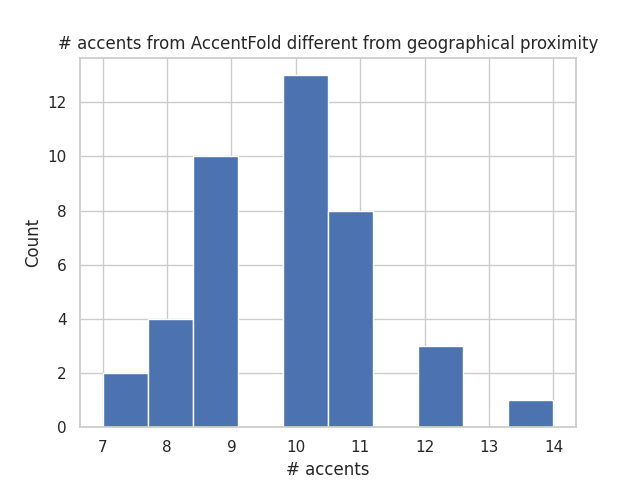
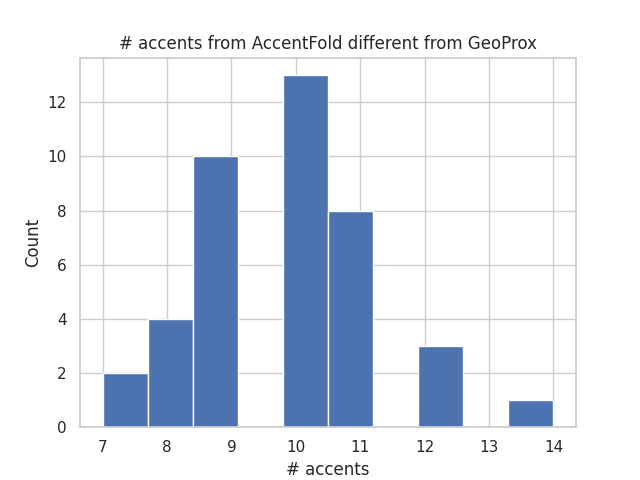
updated histogram for 41 accents

Changed region(s): [[0.0938, 0.0625, 0.9375, 0.125]]

diff --git a/get_metrics.py b/get_metrics.py
@@ -268,7 +268,7 @@ def compare_accent_subsets():
     print('Count: ',count)
     fig,ax = plt.subplots()
     ax.hist(diff)
-    ax.set_title('# accents from AccentFold different from geographical proximity')
+    ax.set_title('# accents from AccentFold different from GeoProx')
     ax.set_xlabel('# accents')
     ax.set_ylabel('Count')
     fig.savefig('plots/hist_diff_accents_fold_geo.png')
